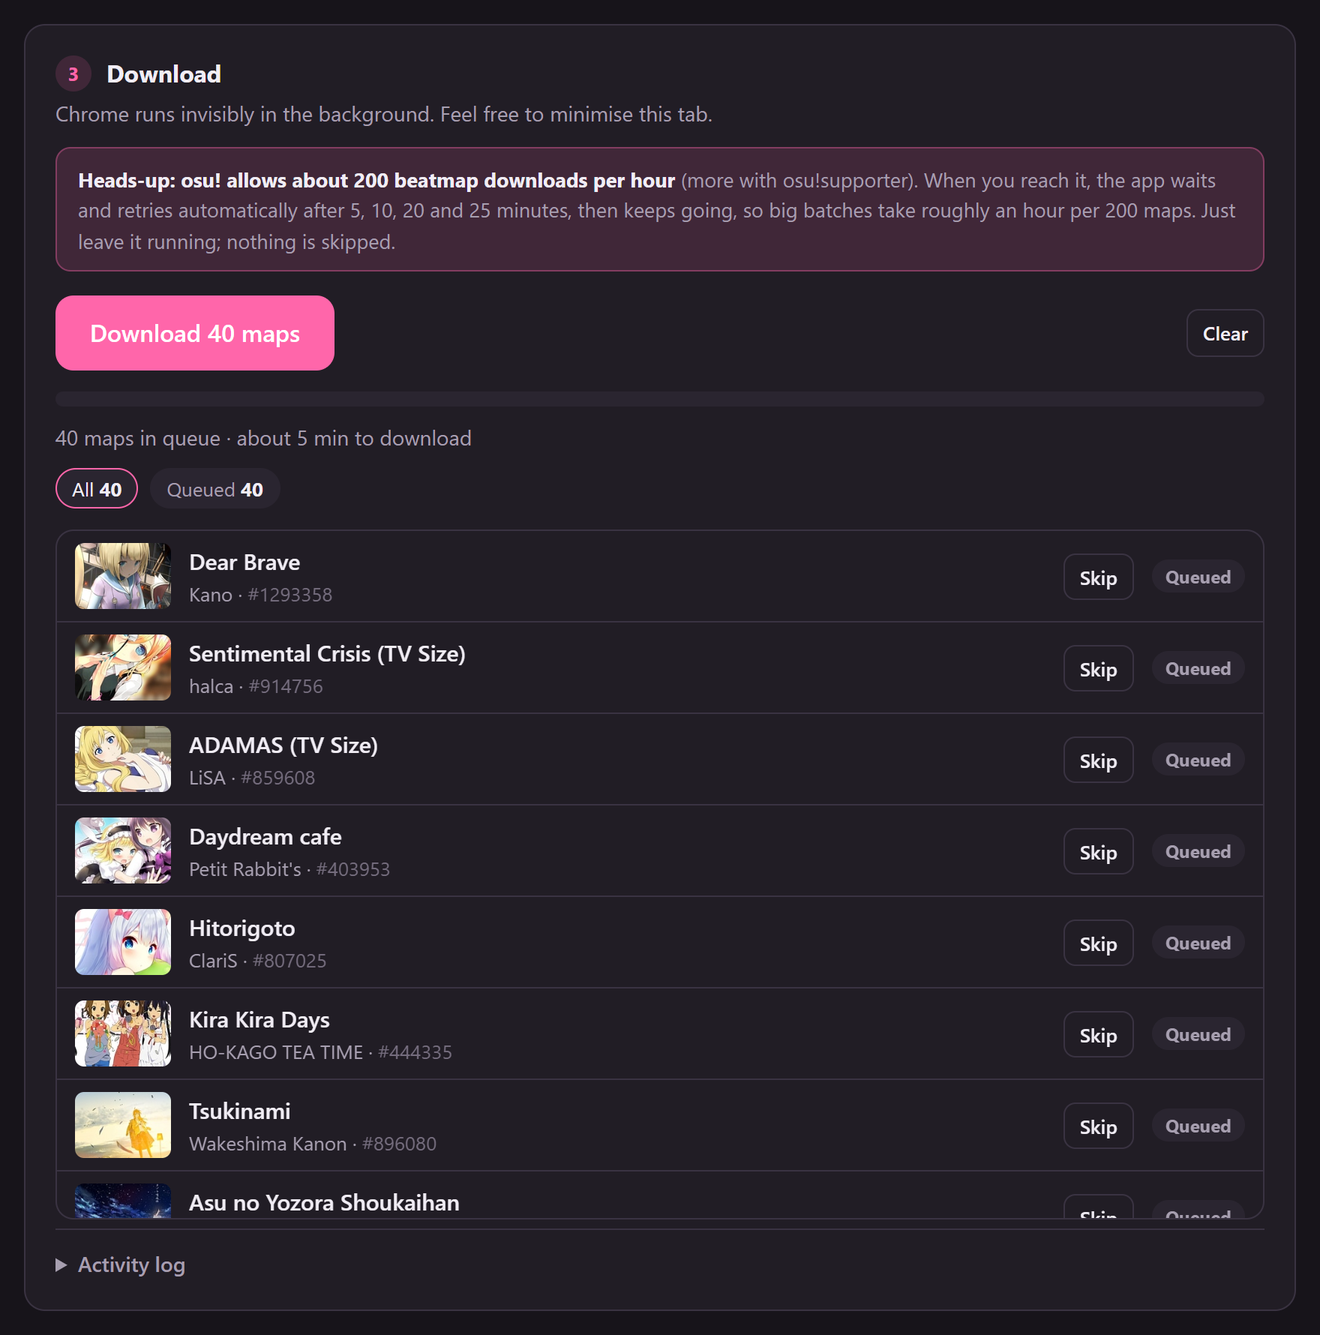
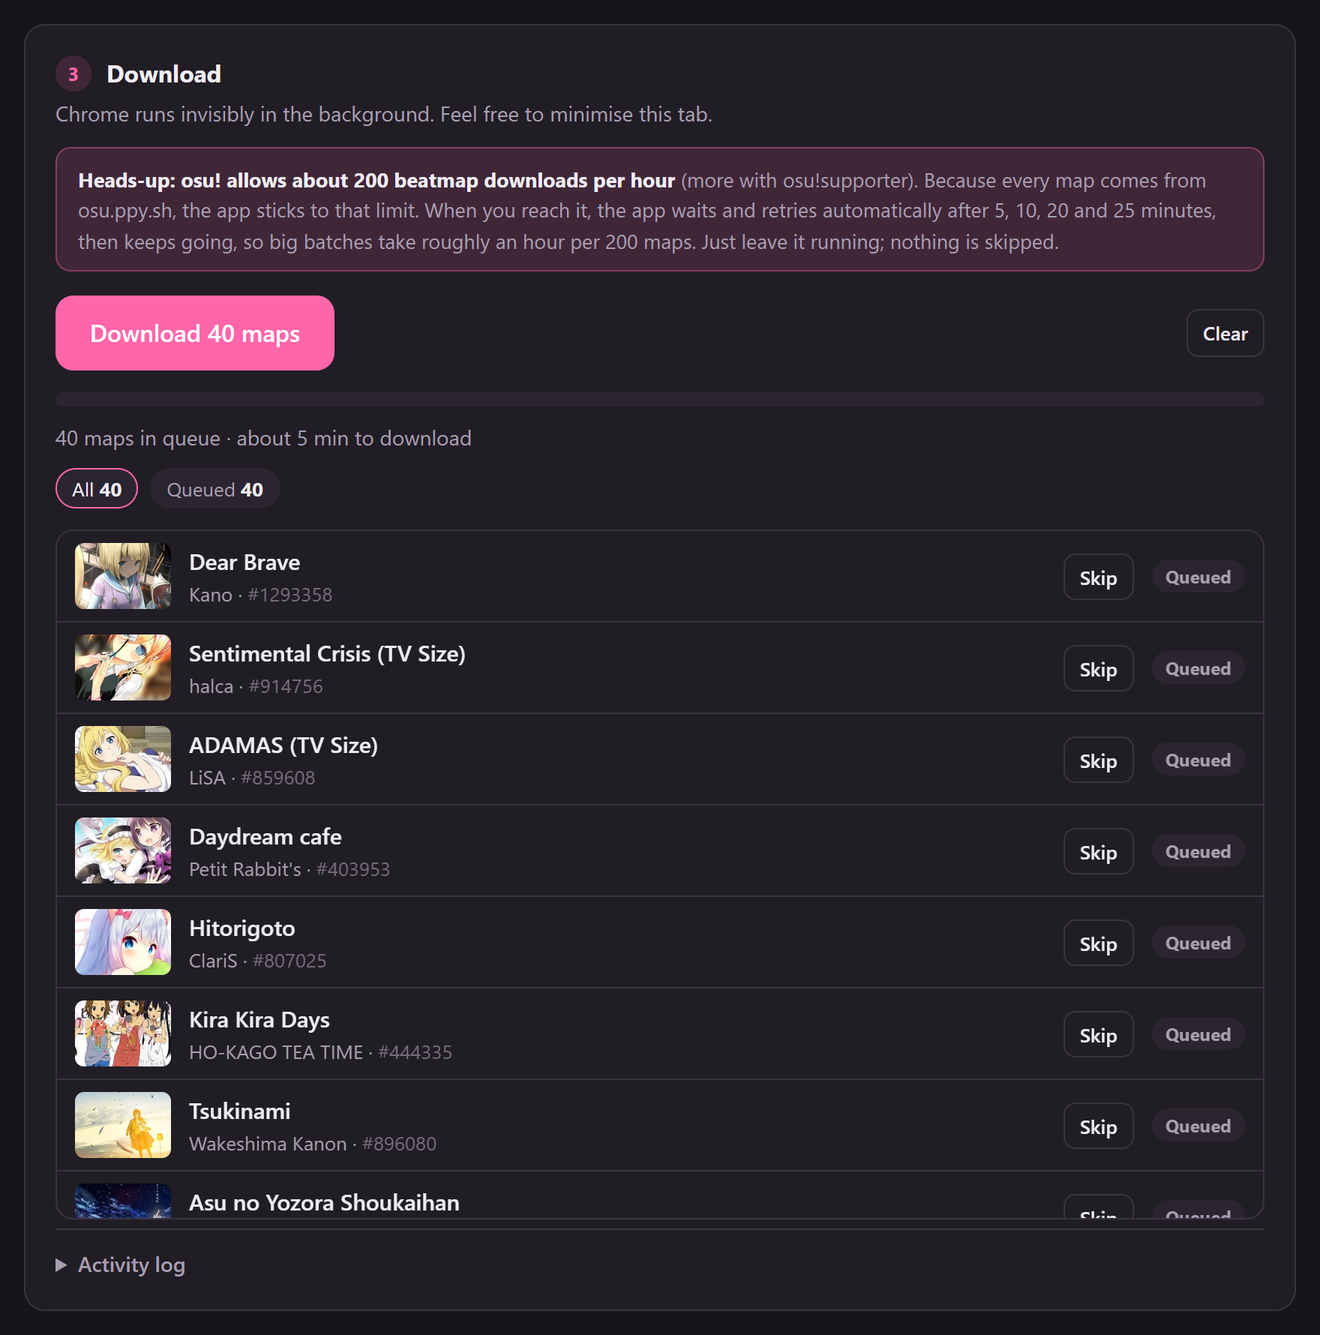
State clearly that every beatmap comes from osu.ppy.sh, with no mirrors

Changed region(s): [[0.0621, 0.1228, 0.9318, 0.1843]]

diff --git a/web/index.html b/web/index.html
@@ -41,6 +41,12 @@ header p { margin: 0; color: var(--muted); font-size: 13px; }
   border-radius: 999px; padding: 4px 6px 4px 4px; font-size: 14px; }
 .chip-user img { width: 28px; height: 28px; border-radius: 50%; }
 
+.official { display: flex; gap: 12px; align-items: center; margin: -6px 0 16px; padding: 12px 16px;
+  border-radius: var(--radius); border: 1px solid color-mix(in srgb, var(--green) 45%, transparent);
+  background: color-mix(in srgb, var(--green) 12%, transparent); font-size: 14px; color: var(--muted); }
+.official b { color: var(--text); }
+.official svg { width: 26px; height: 26px; flex: none; fill: var(--green); }
+
 .card { background: var(--panel); border: 1px solid var(--line); border-radius: var(--radius); padding: 20px; margin-bottom: 16px; }
 .card h2 { margin: 0 0 4px; font-size: 16px; display: flex; align-items: center; gap: 10px; }
 .card h2 .n { width: 24px; height: 24px; border-radius: 50%; background: var(--pink-soft); color: var(--pink);
@@ -193,6 +199,14 @@ footer { color: var(--dim); font-size: 12px; text-align: center; margin-top: 30p
     <button class="btn sm ghost" onclick="if (confirm('Sign out of osu! in this app?')) act('logout')">Sign out</button>
   </div>
 </header>
+
+<div class="official" role="note">
+  <svg viewBox="0 0 24 24" aria-hidden="true"><path d="M12 2 4 5v6c0 5 3.4 9.4 8 11 4.6-1.6 8-6 8-11V5l-8-3Zm-1.2 14.2-3.5-3.5 1.4-1.4 2.1 2.1 4.9-4.9 1.4 1.4-6.3 6.3Z"/></svg>
+  <div>
+    <b>Every beatmap is downloaded straight from osu.ppy.sh</b>, the official osu! website, using your own account.
+    No third-party mirrors or other download sites are used.
+  </div>
+</div>
 
 <!-- STEP 1 -->
 <section class="card" id="step1">
@@ -348,6 +362,7 @@ footer { color: var(--dim); font-size: 12px; text-align: center; margin-top: 30p
   <p class="sub">Chrome runs invisibly in the background. Feel free to minimise this tab.</p>
   <div class="notice">
     <b>Heads-up: osu! allows about 200 beatmap downloads per hour</b> (more with osu!supporter).
+    Because every map comes from osu.ppy.sh, the app sticks to that limit.
     When you reach it, the app waits and retries automatically after 5, 10, 20 and 25 minutes, then keeps going,
     so big batches take roughly an hour per 200 maps. Just leave it running; nothing is skipped.
   </div>

diff --git a/README.md b/README.md
@@ -34,12 +34,17 @@ without needing any coding knowledge.
 
 So far, this is still the best way that I know of to recover lost beatmaps folders. This tool is also a great way to download anyone else's maps, like your favourite pro player's most played list.
 
+> [!NOTE]
+> **All beatmaps are downloaded directly from [osu.ppy.sh](https://osu.ppy.sh), the official osu! website,
+> using your own account.** No third-party mirrors or other download sites are used.
+
 ## Features
 
 - **Grab whole lists at once.** A player's *most played*, *favourites*, *ranked*, *loved*, *guest* or *graveyard* maps. You can also paste IDs/links or open a `.txt` a friend sent you.
 - **Runs invisibly.** Chrome works in the background (headless). No windows popping up, no need to close your browser first.
 - **Skips what you already have.** Maps in your osu!stable `Songs` folder, in the download folder, or downloaded in an earlier session.
 - **One-click import** into **osu!stable** or **osu!lazer**, or automatically as each map finishes.
+- **Official downloads only.** Every map comes straight from osu.ppy.sh, exactly as if you clicked Download yourself.
 - **Handles osu!'s hourly limit for you.** When osu! stops accepting downloads, the app waits and retries on its own, and the time estimate includes those waits. Pause, resume, stop and retry failed maps any time.
 - **Portable.** Unzip and run. Settings, downloads and everything else stay inside the app's folder.
 - **Share your library.** Export your Songs folder as an ID list your friends can load.
@@ -57,11 +62,11 @@ So far, this is still the best way that I know of to recover lost beatmaps folde
 A black window opens (that's the app: keep it open while downloading and close it to quit) and your browser shows the interface.
 
 > [!IMPORTANT]
-> **osu! allows about 200 beatmap downloads per hour** (osu!supporters get more). This is a limit on osu!'s side
-> and there's no way around it. When you reach it, the app waits and retries automatically after **5, 10, 20 and
-> 25 minutes** (an hour in total), then carries on, repeating that cycle if it's still blocked. Big batches
-> therefore take roughly **an hour per 200 maps**: 1,000 maps is about 5 hours. Just leave it running; nothing is
-> skipped, and the time-left estimate already includes the waits.
+> **osu! allows about 200 beatmap downloads per hour** (osu!supporters get more). This is a limit on osu!'s side,
+> and since every map comes from osu.ppy.sh, the app respects it. When you reach it, the app waits and retries
+> automatically after **5, 10, 20 and 25 minutes** (an hour in total), then carries on, repeating that cycle if it's
+> still blocked. Big batches therefore take roughly **an hour per 200 maps**: 1,000 maps is about 5 hours. Just leave
+> it running; nothing is skipped, and the time-left estimate already includes the waits.
 
 ## How to use it
 
